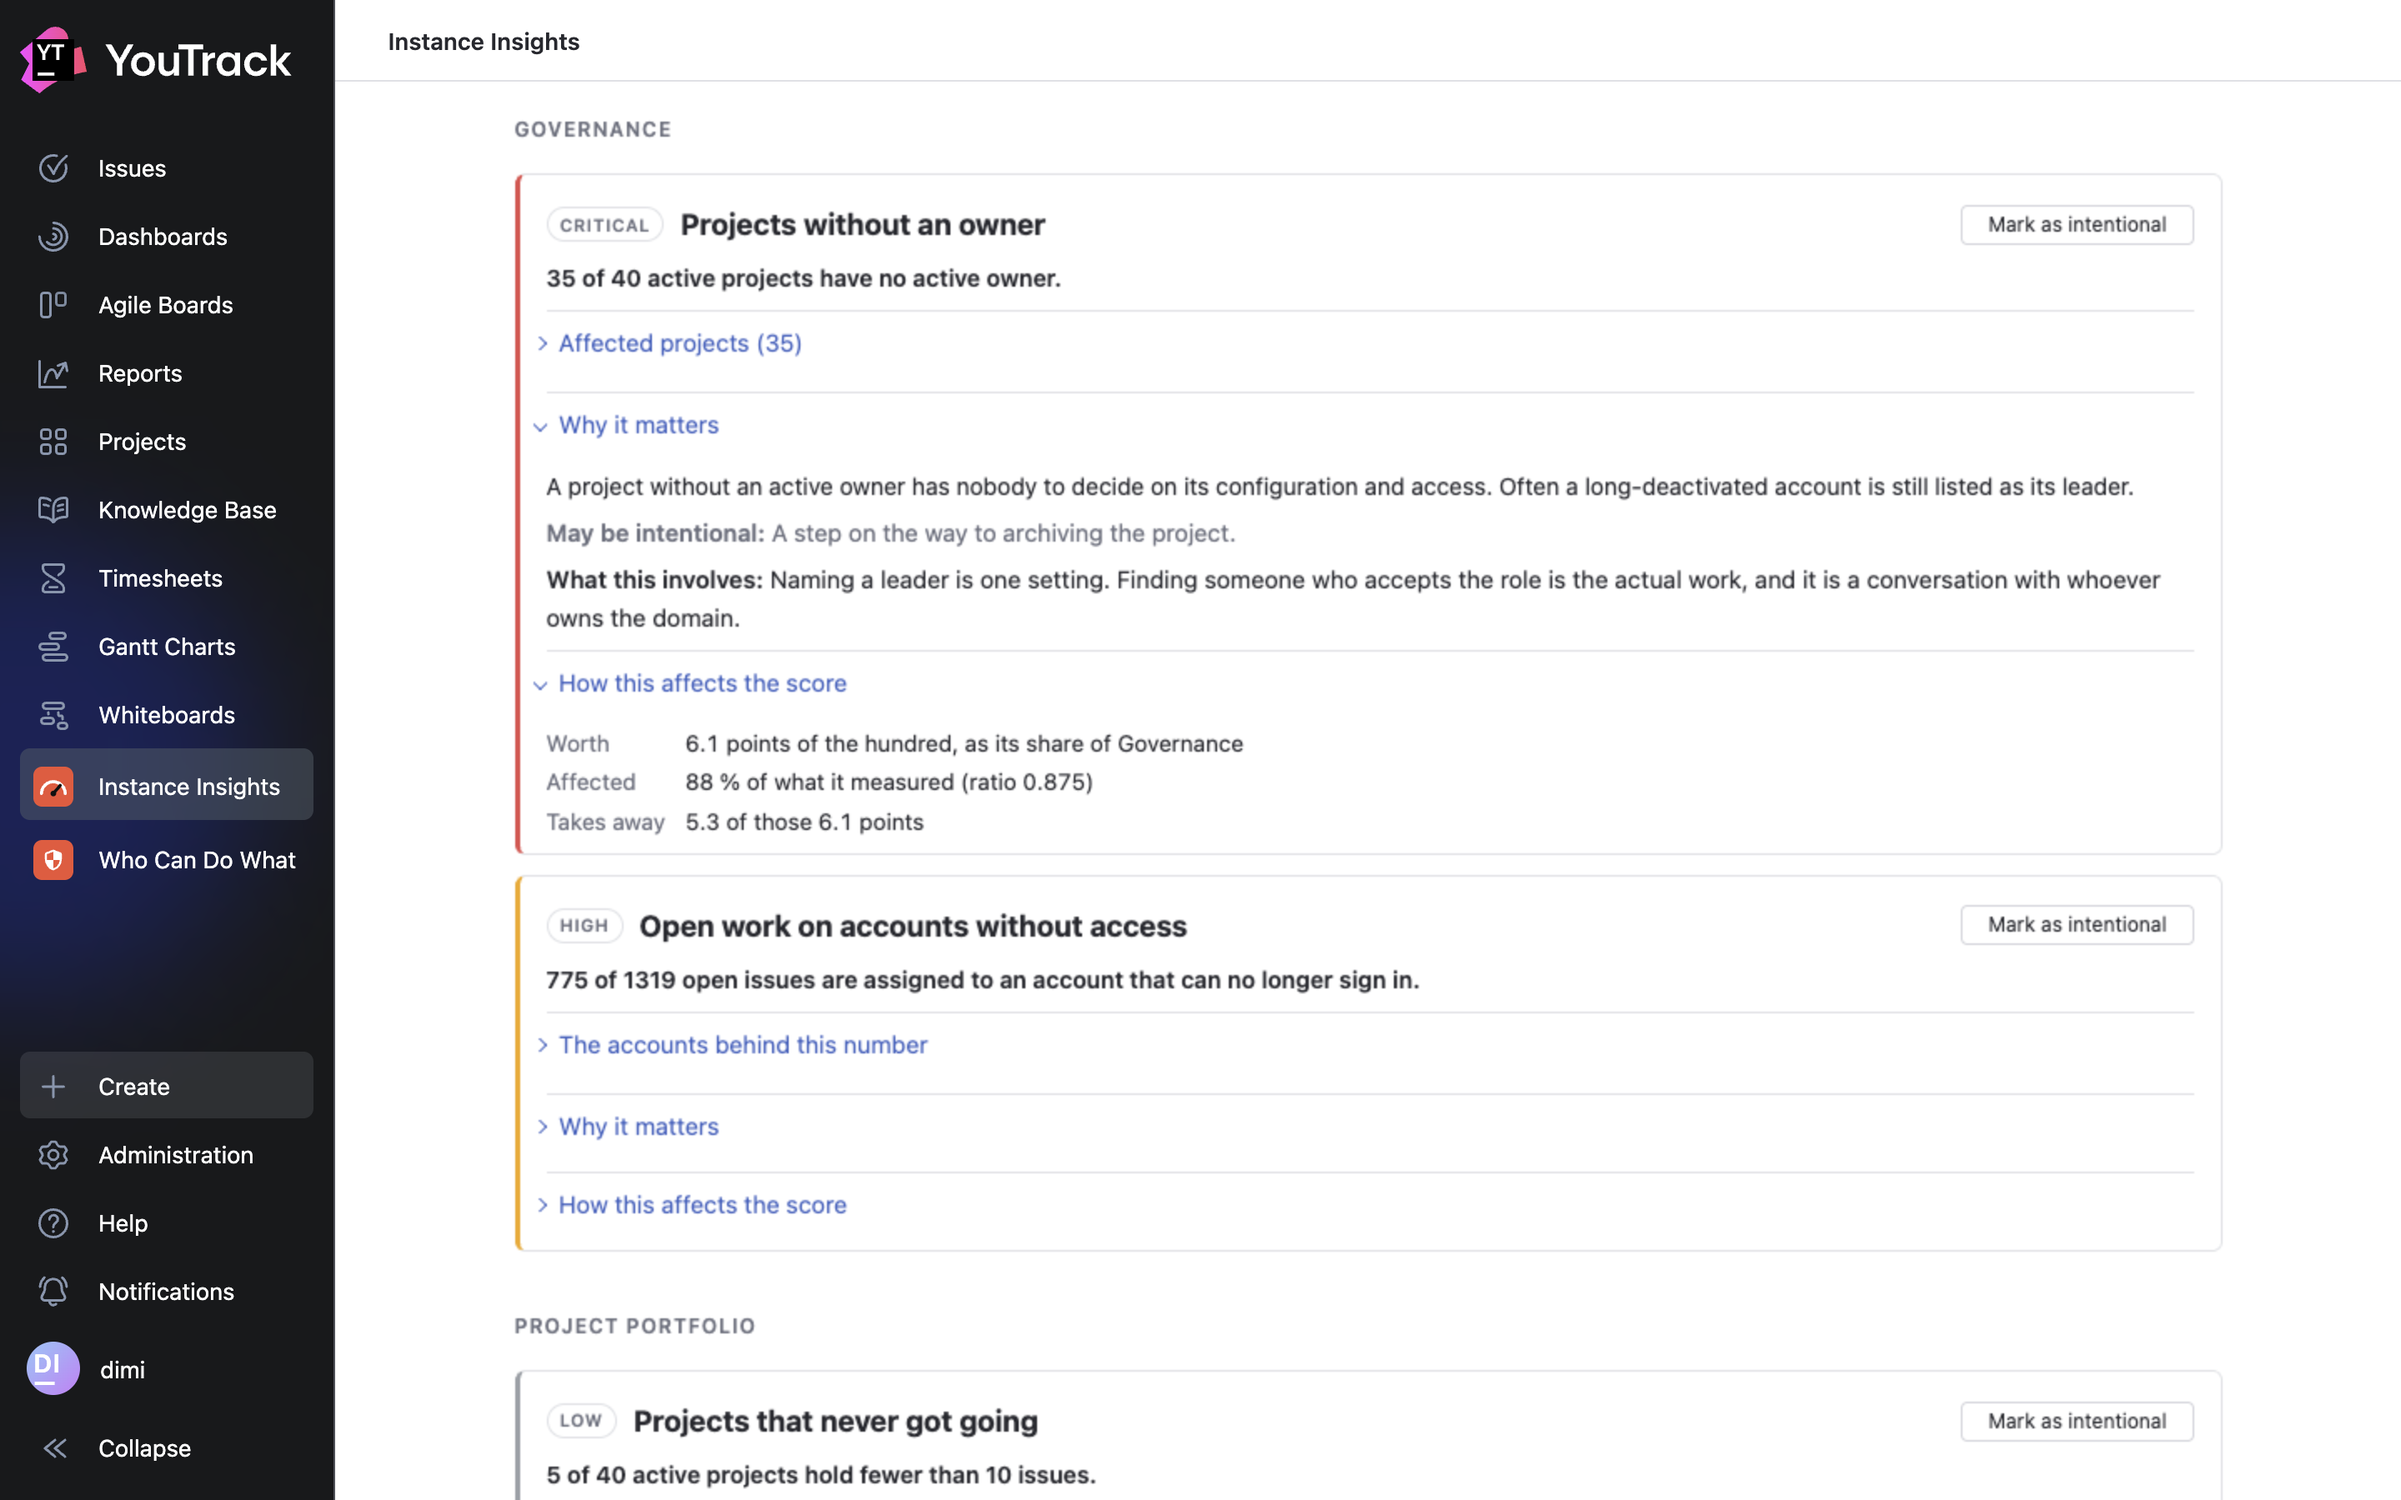
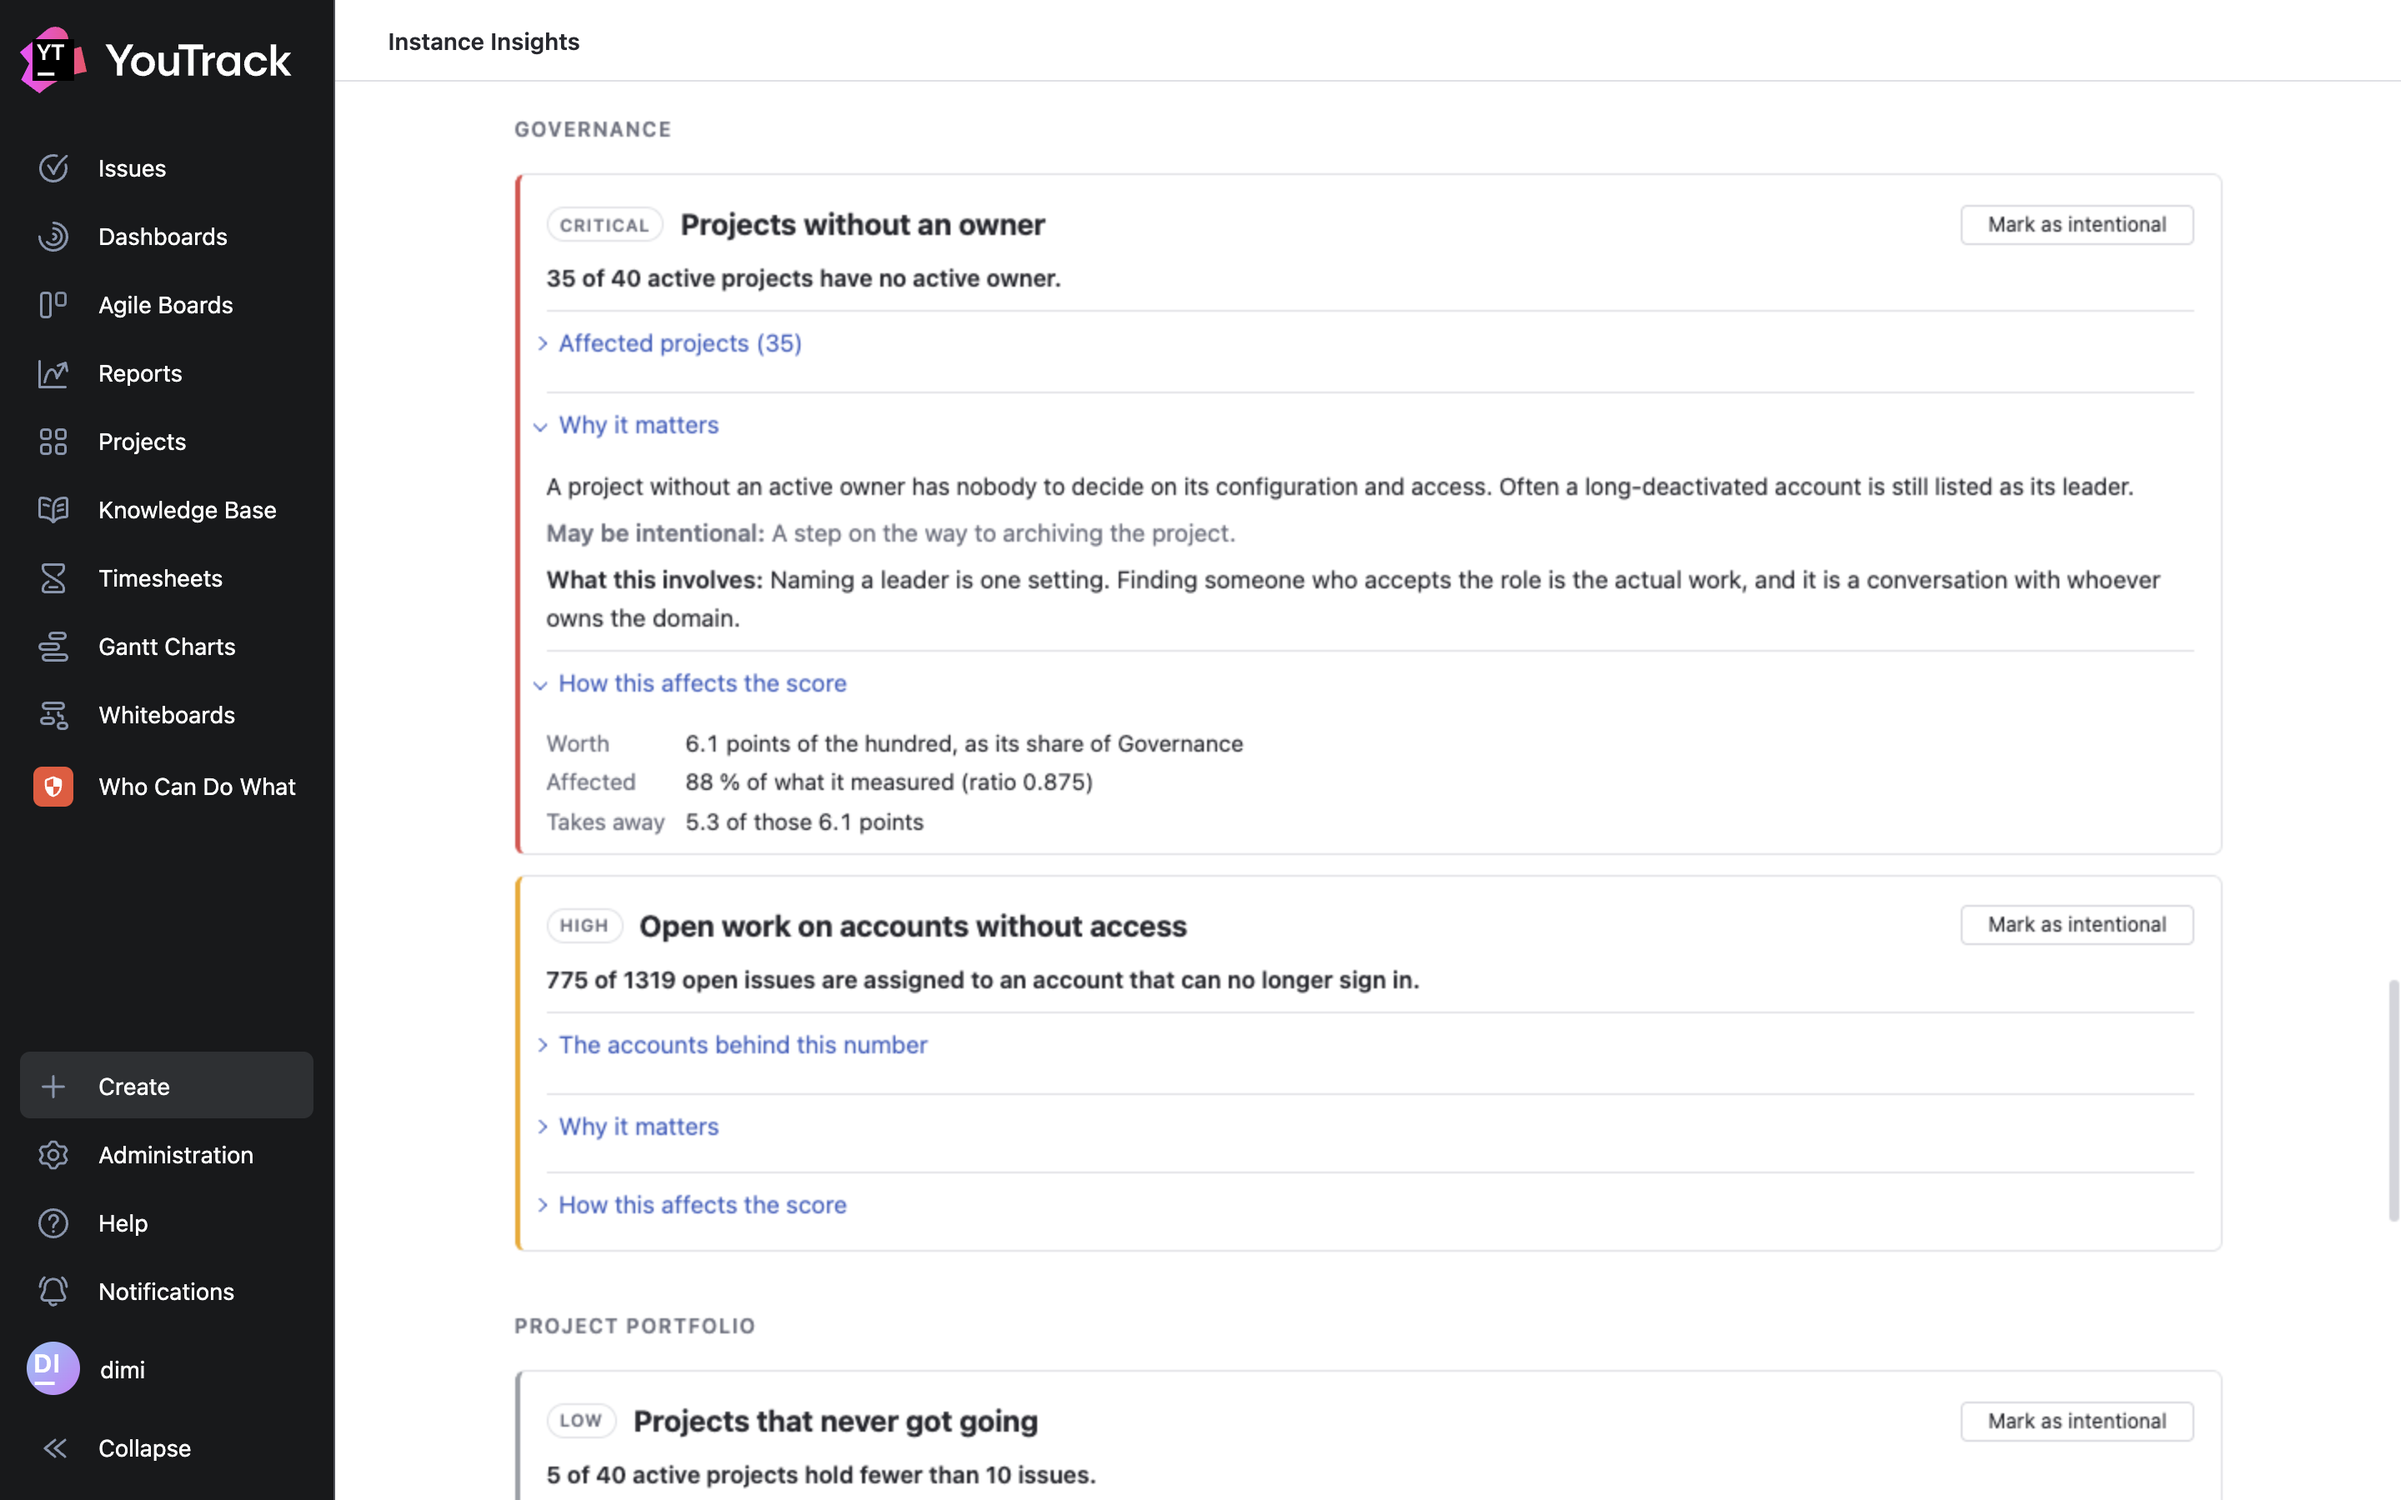
fix(instance-insights): put the report in the administration menu, where an admin utility belongs

Changed region(s): [[0.0, 0.3422, 0.1562, 0.6844], [0.9688, 0.6533, 1.0, 0.8089]]

diff --git a/instance-insights/src/report-shared.ts b/instance-insights/src/report-shared.ts
@@ -86,17 +86,21 @@ const MINUTE_END = 16;
 /**
  * The name YouTrack knows this app under, and the widget that holds the report.
  *
- * A page of the app is served at `<instance>/app/<app>/<widget>` - measured in the
- * address bar of a running instance (2026.2), not derived from a rule. Both names
- * come from the manifest, and `test/repo-layout.test.ts` holds them against it, so
- * a renamed widget cannot leave a link pointing at nothing.
+ * A page that hangs off the administration menu is served at
+ * `<instance>/admin/app/<app>/<widget>` - read out of the address bar of a running
+ * instance (2026.2) after following the menu item, not derived from a rule. The
+ * path without `/admin` still answers, but this is the one the menu itself uses,
+ * and a link that disagrees with the menu sends two readers to two addresses.
+ *
+ * Both names come from the manifest, and `test/repo-layout.test.ts` holds them
+ * against it, so a renamed widget cannot leave a link pointing at nothing.
  */
 export const APP_NAME = 'instance-insights';
 export const REPORT_WIDGET = 'report';
 
 /** The report page of this app in this instance, or null without an instance. */
 export function reportPageUrl(origin: string | null): string | null {
-  return origin === null ? null : `${origin}/app/${APP_NAME}/${REPORT_WIDGET}`;
+  return origin === null ? null : `${origin}/admin/app/${APP_NAME}/${REPORT_WIDGET}`;
 }
 
 /**

diff --git a/instance-insights/test/report-shared.test.ts b/instance-insights/test/report-shared.test.ts
@@ -304,10 +304,13 @@ test('a widget links into the instance only when two facts agree', () => {
 });
 
 test('the report page is where the instance serves it', () => {
-  // Measured in the address bar of a running instance, not derived from a rule.
+  /* Measured in the address bar of a running instance after following the item in
+     the administration menu, not derived from a rule. A page under that menu is
+     served below /admin; the address without it answers too, but the menu uses
+     this one, and the tile has to send its reader where the menu does. */
   assert.equal(
     reportPageUrl('https://youtrack.example.com'),
-    'https://youtrack.example.com/app/instance-insights/report',
+    'https://youtrack.example.com/admin/app/instance-insights/report',
   );
   assert.equal(reportPageUrl(null), null, 'no instance, no link');
 });

diff --git a/instance-insights/src/widgets/score/app.tsx b/instance-insights/src/widgets/score/app.tsx
@@ -75,7 +75,7 @@ const ToReport: React.FunctionComponent<{href: string | null; label: string}> = 
 }) =>
   href === null ? (
     <p className="score-tile__at">
-      {'Open Instance Insights from the main menu for the findings behind this.'}
+      {'Open Instance Insights from the administration menu for the findings behind this.'}
     </p>
   ) : (
     <Button primary href={href} target="_blank" rel="noreferrer">

diff --git a/instance-insights/README.md b/instance-insights/README.md
@@ -53,8 +53,8 @@ npm run upload -- --host https://youtrack.example.com --token perm-...
 ```
 
 The token is a permanent token from an administrator's profile, used as it is.
-*Instance Insights* then appears in the main menu, and the score tile can be added
-to any dashboard.
+*Instance Insights* then appears in the administration menu, under Integrations,
+and the score tile can be added to any dashboard.
 
 It needs YouTrack 2024.3 or newer, which is where an app may keep its own data on
 the instance. On versions before 2026.2 it needs the classic interface: with
